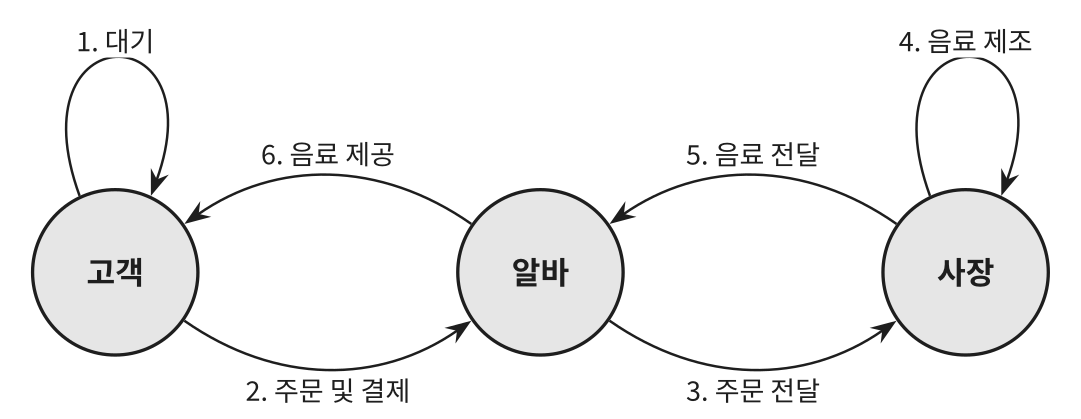
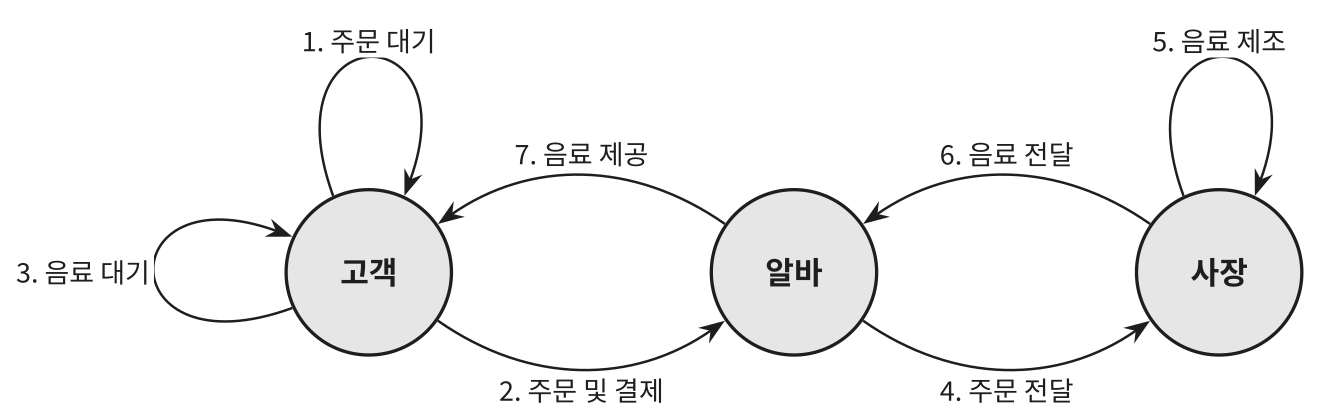
Carry the 경험커피 example through as mobile QR ordering; restructure chapter 4
- Chapter 3: solution example and a new storyboard figure
- Chapter 4: experience prototyping example; prototyping sections before usability testing
- Chapter 1 figure: add the drink-waiting step, linked from chapter 2
- Chapter 8: distinguish prototype evaluation from the cycle's evaluation

diff --git a/figures/storyboard.tex b/figures/storyboard.tex
@@ -1,0 +1,91 @@
+% Chapter 3: storyboard of the 경험커피 mobile (QR) ordering experience.
+\input{figures/_preamble}
+\begin{document}\begin{fig}
+\begin{tikzpicture}[
+    hand/.style={decorate, decoration={random steps, segment length=1.8mm, amplitude=0.2mm}, line width=0.7pt, draw=ink, line cap=round, line join=round},
+    hthin/.style={hand, line width=0.5pt},
+    capt/.style={font=\figsmall, anchor=north, align=center, text width=21mm},
+  ]
+  \pgfmathsetseed{7}
+  \def\W{22mm}\def\H{22mm}
+  % stick figure: #1 x, #2 y (feet), standing
+  \def\person#1#2{%
+    \draw[line width=0.7pt, fill=white] (#1,#2+8.2mm) circle (1.5mm);
+    \draw[hand] (#1,#2+6.7mm) -- (#1,#2+3mm);
+    \draw[hand] (#1,#2+3mm) -- (#1-1.3mm,#2) (#1,#2+3mm) -- (#1+1.3mm,#2);
+  }
+  % small phone: #1 x, #2 y (center)
+  \def\phone#1#2{\draw[hthin, fill=white] (#1-0.9mm,#2-1.5mm) rectangle (#1+0.9mm,#2+1.5mm);}
+
+  % ---------- 1. scan the QR code at the entrance ----------
+  \begin{scope}[shift={(0,0)}]
+    \draw[hand] (0,0) rectangle (\W,\H);
+    \node[font=\figtiny\bfseries, anchor=north west, inner sep=1mm] at (0,\H) {1};
+    \draw[hthin] (0,2mm) -- (\W,2mm);
+    % door
+    \draw[hand] (12mm,2mm) rectangle (20mm,18mm);
+    \node[font=\figtiny] at (16mm,16mm) {경험커피};
+    % QR sign on the door
+    \draw[hthin, fill=white] (14mm,7.5mm) rectangle (18mm,11.5mm);
+    \foreach \x/\y in {14.5/10, 16.6/10, 14.5/8, 16/9, 17/8.2} \fill[ink] (\x mm,\y mm) rectangle (\x mm+0.8mm,\y mm+0.8mm);
+    \node[font=\fontsize{4.3}{5}\selectfont] at (16mm,13.2mm) {QR 주문};
+    \person{6mm}{2mm}
+    \draw[hand] (6mm,7.2mm) -- (8.6mm,8.2mm);
+    \phone{9.4mm}{8.6mm}
+    \draw[hthin, dashed] (10.5mm,8.9mm) -- (13.6mm,9.4mm);
+    \node[capt] at (11mm,-1.5mm) {카페 입구에서 QR 코드를 찍는다};
+  \end{scope}
+
+  % ---------- 2. order and pay on the phone ----------
+  \begin{scope}[shift={(24.3mm,0)}]
+    \draw[hand] (0,0) rectangle (\W,\H);
+    \node[font=\figtiny\bfseries, anchor=north west, inner sep=1mm] at (0,\H) {2};
+    \draw[hand, fill=white] (6mm,2mm) rectangle (16mm,20mm);
+    \node[font=\fontsize{4.3}{5}\selectfont\bfseries] at (11mm,18.2mm) {메뉴};
+    \foreach \y/\t in {15/아메리카노, 12/카페 라떼, 9/녹차 라떼} {
+      \draw[hthin] (7mm,\y mm-1mm) rectangle (15mm,\y mm+1.2mm);
+      \node[font=\fontsize{4}{5}\selectfont] at (11mm,\y mm+0.1mm) {\t};
+    }
+    \draw[hthin, fill=lite] (7mm,3.2mm) rectangle (15mm,6.2mm);
+    \node[font=\fontsize{4.3}{5}\selectfont\bfseries] at (11mm,4.7mm) {결제하기};
+    % finger
+    \draw[hand] (19.5mm,1mm) -- (16.2mm,4.2mm);
+    \node[capt] at (11mm,-1.5mm) {휴대폰으로 주문하고 결제한다};
+  \end{scope}
+
+  % ---------- 3. wait at a seat inside ----------
+  \begin{scope}[shift={(48.6mm,0)}]
+    \draw[hand] (0,0) rectangle (\W,\H);
+    \node[font=\figtiny\bfseries, anchor=north west, inner sep=1mm] at (0,\H) {3};
+    \draw[hthin] (0,2mm) -- (\W,2mm);
+    % empty entrance on the left
+    \draw[hand] (1.5mm,2mm) -- (1.5mm,16mm) -- (7mm,16mm) -- (7mm,2mm);
+    \node[font=\fontsize{4.3}{5}\selectfont, text=mid] at (4.25mm,17.6mm) {빈 입구};
+    % table and seated person
+    \draw[hand] (11.5mm,6.5mm) -- (17.5mm,6.5mm) (14.5mm,6.5mm) -- (14.5mm,2mm);
+    \draw[line width=0.7pt, fill=white] (19.5mm,11.2mm) circle (1.5mm);
+    \draw[hand] (19.5mm,9.7mm) -- (19.5mm,5.5mm) -- (17.5mm,5.5mm) -- (17.5mm,2mm);
+    \draw[hand] (19.5mm,8.4mm) -- (17.2mm,7.6mm);
+    \phone{16.3mm}{8.2mm}
+    \node[capt] at (11mm,-1.5mm) {입구가 아닌 안쪽 자리에서 기다린다};
+  \end{scope}
+
+  % ---------- 4. get notified and pick up ----------
+  \begin{scope}[shift={(72.9mm,0)}]
+    \draw[hand] (0,0) rectangle (\W,\H);
+    \node[font=\figtiny\bfseries, anchor=north west, inner sep=1mm] at (0,\H) {4};
+    \draw[hthin] (0,2mm) -- (\W,2mm);
+    % counter with a cup
+    \draw[hand] (12mm,2mm) rectangle (21mm,8mm);
+    \node[font=\fontsize{4.3}{5}\selectfont] at (16.5mm,5mm) {픽업대};
+    \draw[hand, fill=white] (14.2mm,8mm) -- (14.8mm,11.5mm) -- (17.2mm,11.5mm) -- (17.8mm,8mm) -- cycle;
+    \person{7mm}{2mm}
+    \draw[hand] (7mm,7.2mm) -- (10.5mm,9.5mm);
+    % notification bubble
+    \draw[hthin, fill=white] (5.5mm,14mm) rectangle (20mm,19mm);
+    \node[font=\fontsize{4.3}{5}\selectfont] at (12.75mm,16.5mm) {음료가 나왔어요};
+    \draw[hthin] (8mm,14mm) -- (8mm,12.3mm) -- (10mm,14mm);
+    \node[capt] at (11mm,-1.5mm) {알림을 받고 음료를 받아 간다};
+  \end{scope}
+\end{tikzpicture}
+\end{fig}\end{document}

diff --git a/figures/ux-system-sketch.tex b/figures/ux-system-sketch.tex
@@ -11,14 +11,15 @@
 
   % order flow (bottom, left to right)
   \draw[arr] (c.-35) to[bend right=35] node[lbl, below=1pt] {2. 주문 및 결제} (a.-145);
-  \draw[arr] (a.-35) to[bend right=35] node[lbl, below=1pt] {3. 주문 전달} (o.-145);
+  \draw[arr] (a.-35) to[bend right=35] node[lbl, below=1pt] {4. 주문 전달} (o.-145);
 
   % drink flow (top, right to left)
-  \draw[arr] (o.145) to[bend right=35] node[lbl, above=1pt] {5. 음료 전달} (a.35);
-  \draw[arr] (a.145) to[bend right=35] node[lbl, above=1pt] {6. 음료 제공} (c.35);
+  \draw[arr] (o.145) to[bend right=35] node[lbl, above=1pt] {6. 음료 전달} (a.35);
+  \draw[arr] (a.145) to[bend right=35] node[lbl, above=1pt] {7. 음료 제공} (c.35);
 
   % self loops
-  \draw[arr] (c.115) to[out=110, in=70, looseness=7] node[lbl, above=0pt] {1. 대기} (c.65);
-  \draw[arr] (o.115) to[out=110, in=70, looseness=7] node[lbl, above=0pt] {4. 음료 제조} (o.65);
+  \draw[arr] (c.115) to[out=110, in=70, looseness=7] node[lbl, above=0pt] {1. 주문 대기} (c.65);
+  \draw[arr] (c.205) to[out=200, in=160, looseness=7] node[lbl, left=0pt] {3. 음료 대기} (c.155);
+  \draw[arr] (o.115) to[out=110, in=70, looseness=7] node[lbl, above=0pt] {5. 음료 제조} (o.65);
 \end{tikzpicture}
 \end{fig}\end{document}

diff --git a/figures/fidelity-comparison.tex b/figures/fidelity-comparison.tex
@@ -1,4 +1,4 @@
-% Chapter 5: the same 경험커피 kiosk order screen at three levels of fidelity.
+% Chapter 5: the same 경험커피 mobile order screen at three levels of fidelity.
 \input{figures/_preamble}
 \begin{document}\begin{fig}
 \begin{tikzpicture}

diff --git a/chapter4.md b/chapter4.md
@@ -8,27 +8,29 @@
 
 ![한메일 페이퍼 프로토타입 영상의 한 장면. 출처: 윤석찬, 「한메일 종이 Ajax UX 프로토타입」, YouTube, 2007 (0:14–0:20)](img/video-hanmail-paper-prototype.png)
 
+## 경험 프로토타이핑
+
+만약 제품이 물리적인 요소 (공간이나 물체)를 포함한다면 페이퍼 프로토타입만으로는 사용자 경험을 온전히 제공하는 것이 어려울 수 있다. `경험커피`의 경우에도 문제 자체가 공간과 얽혀 있기 때문에 저충실도 프로토타입을 테스트하더라도 카페 공간 내에서 실제 사용자 동선을 고려할 필요가 있다. 이런 상황에 알맞은 디자인 방법으로는 [경험 프로토타이핑 (Experience Prototyping)](https://dl.acm.org/doi/pdf/10.1145/347642.347802)이 있다. 경험 프로토타이핑은 디자인하고자 하는 경험의 단순한 버전을 쉽고 빠르게 경험하는 것이다. 그 과정을 통해서 최종적으로 디자인하고자 하는 경험이 디자인팀이 원하는 경험인지 아닌지 미리 판단을 할 수 있다. [Palm Pilot](<https://en.wikipedia.org/wiki/Palm_(PDA)>)을 만들 당시에 모바일 기기가 널리 퍼져있던 시기가 아니었기에 PDA를 사용하는 경험이 어떨지 알 수가 없었다. 그러한 경험을 _프로토타이핑_ 해보기 위해서 [Jeff Hawkins는 비슷한 크기의 나무 블록을 들고 다니면서 동작하는 Palm Pilot처럼 사용해 보았다고 한다](https://albertosavoia.medium.com/the-palm-pilot-story-1a3424d2ffe4). 구글 글래스도 [비슷한 디자인 과정을 거쳐서](https://youtu.be/d5_h1VuwD6g) 디자인되었다. [Rapid Prototyping](https://maze.co/blog/rapid-prototyping/)이라는 개념도 있는데 궁극적인 목적은 유사하다.
+
+![구글 글래스의 첫 프로토타입. 옷걸이, 시트 프로텍터, 피코 프로젝터, 넷북으로 만들었다. 출처: Tom Chi, 「Rapid prototyping Google Glass」, TED-Ed, 2013 (1:24)](img/video-glass-rule1.png)
+
+`경험커피`라면 다음과 같이 경험을 프로토타이핑해 볼 수 있다. 종이에 인쇄한 QR 코드를 카페 입구와 테이블에 붙인다. 손님 역할을 맡은 팀원이 QR 코드를 찍으면 페이퍼 프로토타입의 주문 화면을 건네받아 주문하고, 다른 팀원이 그 주문을 알바생에게 전달한다. 이것을 손님이 몰리는 평일 점심시간에 실제 매장에서 해 본다. 이렇게 하면 손님이 QR 코드를 발견하는지, 주문한 뒤에 어디에서 기다리는지, 알바생이 대면 주문과 모바일 주문을 함께 처리할 수 있는지와 같이 화면만으로는 알 수 없는 것들을 확인할 수 있다.
+
 ## 사용성 평가
 
-위와 같이 페이퍼 프로토타입을 만들었으면, 프로토타입을 통하여 사용성을 평가해야 한다. 여기서 말하는 사용성은 넓은 범위의 사용성을 의미한다. 인터페이스의 문제를 파악하는 것부터 아이디어 자체에 대한 평가까지 이루어져야 한다.
+프로토타입을 만들었으면, 프로토타입을 통하여 사용성을 평가해야 한다. 여기서 말하는 사용성은 넓은 범위의 사용성을 의미한다. 인터페이스의 문제를 파악하는 것부터 아이디어 자체에 대한 평가까지 이루어져야 한다.
 
 사용성 평가에서 중요한 것은 다른 과정들과 마찬가지로 목적을 분명하게 하는 것이다. 그에 따라서 어떤 질문들을 해야 할지 정해지고 사용성 평가의 방식이 정해진다. 전반적인 틀은 평가 참가자가 프로토타입을 사용하게 해보고 참가자를 통해서 디자인팀은 궁금한 점들을 해소하는 것이다. 디자인팀은 참가자에게 직접적인 질문을 할 수도 있고 관찰을 할 수도 있다.
 
-사용성 평가가 처음이라면 다음과 같은 순서로 진행해 보자. `경험커피`의 주문 화면을 페이퍼 프로토타입으로 만들었다고 가정하겠다.
+사용성 평가가 처음이라면 다음과 같은 순서로 진행해 보자. `경험커피`의 모바일 주문 화면을 페이퍼 프로토타입으로 만들었다고 가정하겠다.
 
 1. **참가자를 모은다.** 타겟 사용자에 해당하는 사람을 5명 정도 모은다. `경험커피`라면 평일 점심에 카페를 찾는 직장인이다. [5명 정도면 큰 사용성 문제는 대부분 드러난다](https://www.nngroup.com/articles/why-you-only-need-to-test-with-5-users/). 많은 인원으로 한 번 평가하는 것보다 적은 인원으로 평가하고 고치기를 여러 번 반복하는 편이 낫다.
-2. **과업 시나리오를 준비한다.** "한번 써 보세요"라고 하지 않고 구체적인 과업을 준다. 예를 들면 "점심을 먹고 동료와 함께 왔습니다. 아이스 아메리카노 한 잔과 따뜻한 라테 한 잔을 포장으로 주문해 보세요."와 같은 식이다. 이때 버튼 이름이나 조작 방법은 알려 주지 않고 달성할 목표만 말한다.
+2. **과업 시나리오를 준비한다.** "한번 써 보세요"라고 하지 않고 구체적인 과업을 준다. 예를 들면 "점심을 먹고 동료와 함께 왔습니다. 아이스 아메리카노 한 잔과 따뜻한 라떼 한 잔을 포장으로 주문해 보세요."와 같은 식이다. 이때 버튼 이름이나 조작 방법은 알려 주지 않고 달성할 목표만 말한다.
 3. **소리 내어 생각하게 한다.** 참가자에게 프로토타입을 사용하면서 떠오르는 생각을 그대로 말해 달라고 부탁한다. 이것을 [소리 내어 생각하기 (Think-aloud)](https://www.nngroup.com/articles/thinking-aloud-the-1-usability-tool/)라고 한다. "포장은 어디서 고르지?"와 같은 혼잣말을 통해서 참가자가 어디에서 왜 막히는지 알 수 있다.
 4. **도와주지 않는다.** 시작하기 전에 평가받는 것은 참가자가 아니라 프로토타입이라고 말해 준다. 그리고 참가자가 헤매더라도 설명하거나 힌트를 주지 않는다. 참가자가 막히는 순간이 바로 디자인팀이 찾고 있는 데이터이기 때문이다. 궁금한 점은 과업이 끝난 뒤에 질문한다.
 5. **기록하고 정리한다.** 한 명은 진행을 하고 다른 한 명은 관찰한 것을 기록한다. 페이퍼 프로토타입이라면 컴퓨터 역할을 하는 사람도 필요하다. 평가가 끝나면 발견한 문제들을 모아서 심각도에 따라 나눈다. 여러 참가자가 주문을 끝내지 못하게 만든 문제와 잠깐 머뭇거리게 만든 문제는 무게가 다르다.
 
 더 다양한 방법이 궁금하다면 앞서 소개한 '[디자인 방법론 불변의 법칙 100가지](https://product.kyobobook.co.kr/detail/S000001226665)', '[유저 리서치: UX를 위한 사용자 조사의 모든 것](https://product.kyobobook.co.kr/detail/S000001913024)'과 같은 책들을 참고하면 좋다.
-
-## 경험 프로토타이핑
-
-만약 제품이 물리적인 요소 (공간이나 물체)를 포함한다면 사용자 경험을 온전히 제공하는 것이 어려울 수 있다. `경험커피`의 경우에도 문제 자체가 공간과 얽혀 있기 때문에 저충실도 프로토타입을 테스트하더라도 카페 공간 내에서 실제 사용자 동선을 고려할 필요가 있다. 이런 상황에 알맞은 디자인 방법으로는 [경험 프로토타이핑 (Experience Prototyping)](https://dl.acm.org/doi/pdf/10.1145/347642.347802)이 있다. 경험 프로토타이핑은 디자인하고자 하는 경험의 단순한 버전을 쉽고 빠르게 경험하는 것이다. 그 과정을 통해서 최종적으로 디자인하고자 하는 경험이 디자인팀이 원하는 경험인지 아닌지 미리 판단을 할 수 있다. [Palm Pilot](<https://en.wikipedia.org/wiki/Palm_(PDA)>)을 만들 당시에 모바일 기기가 널리 퍼져있던 시기가 아니었기에 PDA를 사용하는 경험이 어떨지 알 수가 없었다. 그러한 경험을 _프로토타이핑_ 해보기 위해서 [Jeff Hawkins는 비슷한 크기의 나무 블록을 들고 다니면서 동작하는 Palm Pilot처럼 사용해 보았다고 한다](https://albertosavoia.medium.com/the-palm-pilot-story-1a3424d2ffe4). 구글 글래스도 [비슷한 디자인 과정을 거쳐서](https://youtu.be/d5_h1VuwD6g) 디자인되었다. [Rapid Prototyping](https://maze.co/blog/rapid-prototyping/)이라는 개념도 있는데 궁극적인 목적은 유사하다.
-
-![구글 글래스의 첫 프로토타입. 옷걸이, 시트 프로텍터, 피코 프로젝터, 넷북으로 만들었다. 출처: Tom Chi, 「Rapid prototyping Google Glass」, TED-Ed, 2013 (1:24)](img/video-glass-rule1.png)
 
 사용성 평가나 경험 프로토타이핑을 통해서 문제가 발견된다면, 사용자가 과업을 완수하지 못하게 만드는 치명적인 문제들이 해결될 때까지 제품 디자인을 수정하고 다시 이 과정을 수행해야 한다. 사소한 문제까지 모두 없애려고 하기보다는 문제의 심각도를 따져서 우선순위를 정하는 것이 현실적이다.
 

diff --git a/chapter2.md b/chapter2.md
@@ -48,7 +48,7 @@
 
 ![경험커피 점심시간 관찰 데이터로 그린 친화도 다이어그램의 예](img/affinity-diagram.png)
 
-여기에서 주의해야 하는 것은 도출되는 주제가 표면적이어서는 안 된다는 점이다. 주제를 보았을 때 사용자의 니즈가 무엇인지 직관적으로 도출이 될 수 있을 정도로 작성되어야 한다. `경험커피` 예시를 다시 사용해보자. '음료를 기다리는 고객들이 카페 입구에서 대기하기 때문에 새롭게 입장하는 고객들이 불편을 느끼고 입장 후 주문까지 시간이 오래 걸린다.'와 같은 주제는 표면적이다. 현상을 묘사하는 데 그치기 때문이다. 한 단계 더 들어가서 왜 고객들이 카페 입구에서 대기를 할 수밖에 없는지 분석해야 한다. `경험커피`의 매장 구조는 주문하는 곳과 음료를 받는 곳이 나란히 있는 구조이다. '주문하는 곳과 음료를 받는 곳이 나란히 붙어 있기 때문에 음료를 대기하는 고객들이 입장 고객의 동선을 막게 되고 모든 고객들이 불편을 느낀다.'가 더 적절한 주제이다. 이러한 주제는 이후에 키오스크를 설치한다고 할 때 키오스크의 위치가 현재 주문을 받는 위치와 달라져야 한다는 것을 함의한다.
+여기에서 주의해야 하는 것은 도출되는 주제가 표면적이어서는 안 된다는 점이다. 주제를 보았을 때 사용자의 니즈가 무엇인지 직관적으로 도출이 될 수 있을 정도로 작성되어야 한다. `경험커피` 예시를 다시 사용해보자. '음료를 기다리는 고객들이 카페 입구에서 대기하기 때문에 새롭게 입장하는 고객들이 불편을 느끼고 입장 후 주문까지 시간이 오래 걸린다.'와 같은 주제는 표면적이다. 현상을 묘사하는 데 그치기 때문이다. 한 단계 더 들어가서 왜 고객들이 카페 입구에서 대기를 할 수밖에 없는지 분석해야 한다. `경험커피`의 매장 구조는 주문하는 곳과 음료를 받는 곳이 나란히 있는 구조이다. '주문하는 곳과 음료를 받는 곳이 나란히 붙어 있기 때문에 음료를 대기하는 고객들이 입장 고객의 동선을 막게 되고 모든 고객들이 불편을 느낀다.'가 더 적절한 주제이다. 1장의 UX 시스템 스케치로 보면 '음료 대기' 단계에 있는 고객이 '주문 대기' 단계에 있는 고객을 막고 있는 것이다. 이러한 주제는 이후에 키오스크를 설치한다고 할 때 키오스크의 위치가 현재 주문을 받는 위치와 달라져야 한다는 것을 함의한다.
 
 ![표면적인 주제와 한 단계 더 들어간 주제](img/theme-depth.png)
 

diff --git a/chapter3.md b/chapter3.md
@@ -18,8 +18,16 @@
 
 스케치는 스케치다워야 한다. 큰 노력을 들이지 않아야 하며 쉽게 버릴 수 있어야 하지만 핵심 아이디어는 표현이 되어야 한다. 스케치에 대한 내용도 상당히 방대하다. 스케치의 중요성과 역할이 궁금하다면 '[사용자 경험 스케치 - 빌 벅스턴](https://product.kyobobook.co.kr/detail/S000001469856)'을 읽어보길 추천한다.
 
+`경험커피`의 예시로 돌아가 보자. 디자인팀은 앞에서 선택한 세 개의 HMW 질문을 놓고 아이디어를 발산했다. 소형 키오스크를 카페 안쪽에 두는 것, 줄 서는 위치를 바닥에 표시하는 것, 진동벨을 나눠 주는 것, 고객이 자신의 휴대폰으로 QR 코드를 찍어서 주문하는 것과 같은 아이디어들이 나왔다. 투표를 통해 수렴한 결과 디자인팀은 모바일 QR 주문을 선택했다. 고객이 카페 밖이나 안쪽 자리 어디에서든 주문할 수 있어서 세 질문에 모두 답할 수 있고, 공간이 협소하고 키오스크 구매가 부담스럽다는 `경험커피`의 사정에도 맞기 때문이다. 사장님이 처음 이야기한 것은 키오스크였지만, 사용자를 이해하고 문제를 다시 정의하고 나니 다른 솔루션에 도달한 것이다.
+
 ## 사용자 경험 스케치
 
 위 과정에서 도출하는 솔루션은 대략적인 제품의 모습일 것이다. 그러면 그 제품이 어떠한 사용자 경험을 만들 수 있는지도 설계해 보고 그것이 좋은 사용자 경험이 될지 판단하는 과정이 필요하다. 이를 위해서 우리는 경험을 스케치할 필요가 있다. 제품이 어떻게 생겼을지 파악하기 위해서 제품을 스케치를 하는 것처럼 경험이 어떤 모습일지 파악하기 위해서 경험을 스케치하는 것이다.
 
 경험을 스케치하기 위해서 유용한 방법은 [스토리보드](https://www.nngroup.com/articles/storyboards-visualize-ideas/)를 그려보는 것이다. 스토리보드는 제품이 완성되었을 때 사용자의 경험을 만화와 같이 컷 단위의 스케치로 그리는 것을 이야기한다.
+
+`경험커피`의 모바일 QR 주문이라면 다음과 같은 스토리보드를 그릴 수 있다.
+
+![경험커피 모바일 QR 주문의 스토리보드](img/storyboard.png)
+
+스토리보드를 그려 보면 솔루션만 볼 때는 보이지 않던 질문들이 드러난다. 손님이 입구에서 QR 코드를 발견할 수 있을까? 주문을 마친 손님은 어디에서 기다려야 하는지 알 수 있을까? 음료가 나왔다는 것은 어떻게 알릴까? 이런 질문들이 다음 단계인 프로토타이핑에서 확인해야 하는 것들이 된다.

diff --git a/chapter5.md b/chapter5.md
@@ -4,7 +4,7 @@
 
 이 단계에서 얼마나 실제와 가깝게 만들어야 하는지 궁금할 수 있다. 그것은 무엇을 검증해야 하는가에 따라서 달라진다. 인터페이스의 정보 구조나 컴포넌트 수준의 인터페이스 검증이 필요하다면 [스타일 없이 뼈대만 있는 인터페이스](https://www.figma.com/community/file/1075811850250564922/paper-wireframe-kit)를 사용해도 괜찮다. 하지만 만약 스타일이 사용자 경험에 중요하다고 판단이 되면 구현하고자 하는 스타일이 적용된 중충실도 프로토타입을 만들어야 할 것이다.
 
-![같은 키오스크 주문 화면의 세 가지 충실도](img/fidelity-comparison.png)
+![같은 모바일 주문 화면의 세 가지 충실도](img/fidelity-comparison.png)
 
 회사에 디자인 시스템이 있을 수 있다. 디자인 시스템은 색, 글꼴, 버튼 같은 인터페이스 요소를 일관되게 쓰기 위해 정리해 둔 규칙과 컴포넌트 모음이다. 디자인 시스템이 없더라도 이미 만들어 둔 인터페이스 컴포넌트들이 존재할 수 있다. 그러한 재료들을 사용하면 중충실도 프로토타입을 쉽고 빠르게 만들 수 있기 때문에 사용하고 싶을 것이다. 하지만 이 단계에서는 그러한 재료를 사용하지 않는 것을 추천한다. 앞에서 스타일이 중요하다면 스타일을 적용하라고 한 것과 모순처럼 들릴 수 있다. 하지만 검증하려는 부분에 필요한 만큼만 스타일을 직접 입히는 것과, 이미 완성된 컴포넌트를 그대로 가져다 쓰는 것은 다르다. 완성된 컴포넌트를 가져오면 아직 정해지지 않은 부분까지 포함해서 인터페이스 전체가 완성품처럼 보이기 때문이다. 중요한 것은 미완성인 부분은 미완성처럼 보여야 한다는 점이다. 기존 재료를 추천하지 않는 이유는 두 가지다. 첫째, 프로토타입이 완성품처럼 보이면 피드백을 주는 사람이 어디까지 바꿀 수 있고 어디부터 바꿀 수 없는지 알기 어렵다. 그러면 바꾸고 싶은 부분이 있더라도 이미 완성되어 보여서 의견을 주지 않을 수 있고 폭넓은 피드백을 받기가 어렵다. 둘째, 기존에 있는 틀에 얽매이게 되어서 더 나은 디자인이 나오지 못할 수 있다. 충분히 고민을 할 수 있는 기회가 사라지는 것이다. 이것은 [디자인 시스템이 가지고 있는 한계점](https://youtu.be/BQXTt-NZ2Bs) 중 하나이다. 이 단계는 충분히 자유롭게 인터페이스를 탐색해 보고, 기존의 디자인 시스템에 한계가 드러난다면 개선을 결정해야 하는 단계이다.
 

diff --git a/chapter7.md b/chapter7.md
@@ -16,7 +16,7 @@
 
 - **독자를 먼저 정한다.** 개발팀이 읽을 리포트와 경영진이 읽을 리포트는 강조할 내용이 다르다. 독자를 정하기 어렵다면 이 프로젝트를 전혀 모르는 반년 뒤의 동료를 떠올리면 된다.
 - **결론을 먼저 쓴다.** 리포트를 끝까지 읽는 사람은 많지 않다. 첫 문단만 읽어도 무엇을 만들었고 왜 만들었는지 알 수 있어야 한다.
-- **결정에는 근거를 붙인다.** "주문 후에 기다릴 위치를 안내하는 화면을 넣었다"에서 끝내지 않고 "음료를 기다리는 고객이 입구를 막는 것을 관찰했기 때문에"라는 근거를 함께 적는다. 앞에서 도출한 인사이트와 사용성 평가 결과가 여기에서 쓰인다.
+- **결정에는 근거를 붙인다.** "주문 완료 화면에 안쪽 자리에서 기다려 달라는 안내를 넣었다"에서 끝내지 않고 "음료를 기다리는 고객이 입구를 막는 것을 관찰했기 때문에"라는 근거를 함께 적는다. 앞에서 도출한 인사이트와 사용성 평가 결과가 여기에서 쓰인다.
 - **버린 것도 기록한다.** 선택되지 않은 HMW 질문과 탈락한 스케치도 왜 선택하지 않았는지와 함께 남긴다. 나중에 같은 고민을 반복하지 않게 해 주고, 제품을 개선할 때 출발점이 된다.
 - **그림으로 보여 준다.** UX 시스템 스케치, 친화도 다이어그램, 스토리보드, 프로토타입 사진처럼 앞 단계에서 만든 결과물들이 그대로 리포트의 재료가 된다. 글로 길게 설명하는 것보다 그림 한 장이 더 빨리 전달된다.
 

diff --git a/chapter1.md b/chapter1.md
@@ -42,7 +42,7 @@
 
 이 과정에서는 회사의 상황이나 본인의 가치관 같은 것들이 영향을 미칠 수 있다. 회사에서 현재 신규 고객에 집중해야 하는 상황이라면 신규 고객이 대상이 될 것이다. 노년층을 위한 서비스를 만드는 것도 충분히 가치 있지만 주 고객이 청년층이라면 그들이 타겟 고객이 되어야 할 것이다.
 
-그렇다면 `경험커피` 키오스크의 타겟 사용자는 누구일까? `경험커피`에는 다양한 시간대에 손님들이 오지만 이 프로젝트에서는 평일 점심에 오는 직장인 손님들이 키오스크의 타겟 사용자가 될 것이다. 다른 고객들도 중요하지만 일단은 그들을 신경 쓰지 않아도 괜찮다. 한편 키오스크로 들어온 주문을 받아 처리하는 알바생과 사장님도 이 제품의 사용자라는 점을 잊지 말자. 이들은 2차 사용자 (Secondary User)로, 주문을 넣는 고객만큼이나 제품의 성공에 영향을 미친다.
+그렇다면 `경험커피` 프로젝트의 타겟 사용자는 누구일까? `경험커피`에는 다양한 시간대에 손님들이 오지만 이 프로젝트에서는 평일 점심에 오는 직장인 손님들이 타겟 사용자가 될 것이다. 다른 고객들도 중요하지만 일단은 그들을 신경 쓰지 않아도 괜찮다. 한편 고객의 주문을 받아 처리하는 알바생과 사장님도 이 제품의 사용자라는 점을 잊지 말자. 이들은 2차 사용자 (Secondary User)로, 주문을 넣는 고객만큼이나 제품의 성공에 영향을 미친다.
 
 ## 확인하기: UX 시스템 스케치
 

diff --git a/chapter8.md b/chapter8.md
@@ -4,4 +4,4 @@
 
 ![디자인, 구현, 평가의 끝없는 사이클](img/design-cycle.png)
 
-그렇기 때문에 이 소책자를 덮고 해야 하는 것은 다시 첫 단계로 돌아가는 것이다. 지난하지만 지겨워질 때까지 반복하다보면 비로소 쓸 만한 제품이 나올 것이다.
+이 소책자에서 다룬 프로토타입 평가는 디자인을 다듬기 위해 디자인 단계 안에서 하는 평가이다. 사이클의 평가는 구현한 제품을 실제 사용자들이 사용하는 모습을 확인하는 것을 말한다. 그렇기 때문에 이 소책자를 덮고 해야 하는 것은 디자인한 제품을 구현하고, 실제 사용자와 함께 평가한 다음, 그 결과를 가지고 다시 첫 단계로 돌아오는 것이다. 지난하지만 지겨워질 때까지 반복하다보면 비로소 쓸 만한 제품이 나올 것이다.
